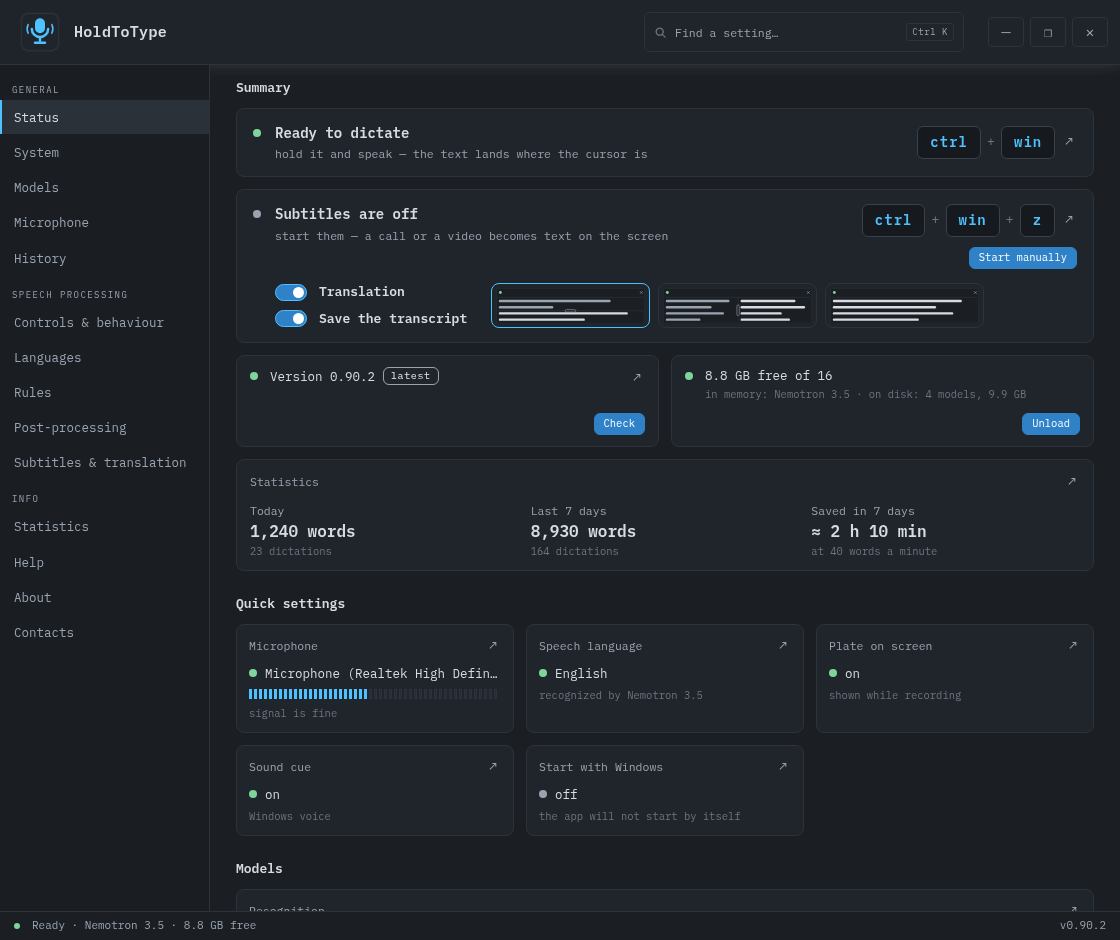
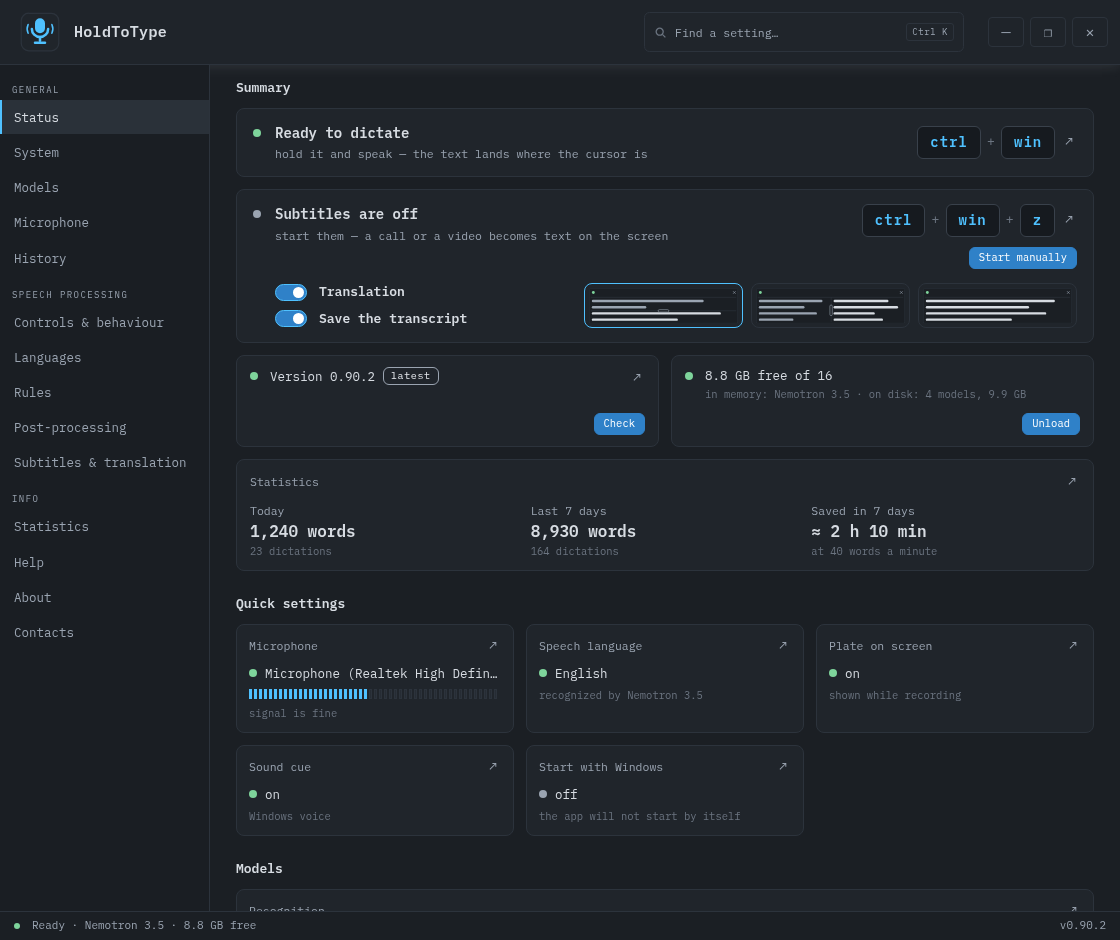
the layout cards of the subtitles card on status and the design cards on system stand at the right edge of their row in a wide window, while the terminal design keeps them as they were

Changed region(s): [[0.4375, 0.3085, 0.75, 0.3702], [0.7812, 0.3085, 0.9375, 0.3394]]

diff --git a/test/ui.test.js b/test/ui.test.js
@@ -520,7 +520,9 @@ function check(name, actual, expected) {
     check("and so does the space bar", skinSel.value, "terminal");
     check("the cards take the rules of the small layout cards", [html.includes("#subs_hero .stlay,#skin_cards .stlay{position:relative;"), html.includes("#subs_hero .stlay.on,#skin_cards .stlay.on{border-color:var(--hi);box-shadow:var(--higlow)}"), html.includes("#subs_hero .stlay:has(input:focus-visible),#skin_cards .stlay:has(input:focus-visible){outline:1px solid var(--green);outline-offset:2px}")], [true, true, true]);
     check("names are never cut: every column is as wide as the longest name and the cards wrap instead", [html.includes("display:grid;grid-template-columns:repeat(auto-fit,minmax(var(--dmin,68px),1fr));gap:6px;font-size:11px}"), box.style.getPropertyValue("--dmin"), html.includes("#skin_cards .dname{display:block;text-align:center;color:var(--dim);white-space:nowrap}")], [true, "calc(" + Math.max(...[...skinSel.options].map((o) => [...o.textContent].length)) + "ch + 10px)", true]);
-    check("in a wide window the row stops where seven cards of 84 px end and stays on the left", [html.includes("#skin_cards{flex:1 1 100%;min-width:0;max-width:calc(var(--dcount) * 84px + (var(--dcount) - 1) * 6px);"), box.style.getPropertyValue("--dcount"), String(skinSel.options.length)], [true, "7", "7"]);
+    check("in a wide window the row stops where seven cards of 84 px end", [html.includes("#skin_cards{flex:1 1 100%;min-width:0;max-width:calc(var(--dcount) * 84px + (var(--dcount) - 1) * 6px);"), box.style.getPropertyValue("--dcount"), String(skinSel.options.length)], [true, "7", "7"]);
+    check("outside the terminal design the cards stand at the right edge of the row and the free space goes to their left", [html.includes('html:not([data-skin="terminal"]) #skin_cards{margin-left:auto}'), (html.match(/#skin_cards\{[^}]*margin/g) || []).length], [true, 1]);
+    check("the terminal design keeps the cards on the left", [/html\[data-skin="terminal"\][^{]*#skin_cards[^{]*\{/.test(html), /(^|[}\n])#skin_cards\{[^}]*margin/.test(html)], [false, false]);
     check("the scanlines and the paper top edge come with the pictures", [html.includes(".dt-scan{position:absolute;inset:0;pointer-events:none;opacity:var(--scan);"), html.includes('.dthumb[data-skin="paper"] .dt-card{border-top-width:2px}')], [true, true]);
     skinSel.removeEventListener("change", count);
     check("the search still finds the design row", w.searchMatches("s_skin").some((el) => el.closest(".dsrow")), true);
@@ -2066,9 +2068,11 @@ function check(name, actual, expected) {
   check("status: outside the terminal design the cards grow up to the height of the switch column and shrink when the width runs out", [
     css.includes("#subs_hero .stswcol{display:flex;flex-direction:column;align-items:flex-start;gap:8px;flex:none}"),
     css.includes('html:not([data-skin="terminal"]) #subs_hero>.stsubsw{flex-wrap:nowrap}'),
-    css.includes('html:not([data-skin="terminal"]) #subs_hero .stsubsw>.stlays{flex:0 1 auto;min-width:0}'),
+    css.includes('html:not([data-skin="terminal"]) #subs_hero .stsubsw>.stlays{flex:0 1 auto;min-width:0;margin-left:auto;justify-content:flex-end}'),
     css.includes('html:not([data-skin="terminal"]) #subs_hero .stlay{flex:0 1 var(--cardw,74px);min-width:0}'),
     css.includes('html:not([data-skin="terminal"]) #subs_hero .stlay svg{width:100%}')], [true, true, true, true, true]);
+  check("status: outside the terminal design the small cards stand at the right edge of the row and the free space goes between the switch column and them", [css.includes('html:not([data-skin="terminal"]) #subs_hero .stsubsw>.stlays{flex:0 1 auto;min-width:0;margin-left:auto;justify-content:flex-end}'), (css.match(/#subs_hero[^{}]*\.stlays\{[^}]*margin/g) || []).length], [true, 1]);
+  check("status: the terminal design keeps the small cards right after the switches", [/html\[data-skin="terminal"\][^{]*\.stlays\{[^}]*margin/.test(css), /(^|[}\n])#subs_hero \.stlays\{[^}]*margin/.test(css)], [false, false]);
   check("status: the terminal design keeps the old order: translation, the small cards, saving", [
     css.includes('html[data-skin="terminal"] #subs_hero .stswcol{display:contents}'),
     css.includes('html[data-skin="terminal"] #subs_hero .stsubsw>.stlays{order:1}'),

diff --git a/client/settings.go b/client/settings.go
@@ -2136,7 +2136,7 @@ input.srcpick:disabled,input.srvpick:disabled{opacity:.4;cursor:default}
 #subs_hero .stlay:has(input:focus-visible),#skin_cards .stlay:has(input:focus-visible){outline:1px solid var(--green);outline-offset:2px}
 #subs_hero .stswcol{display:flex;flex-direction:column;align-items:flex-start;gap:8px;flex:none}
 html:not([data-skin="terminal"]) #subs_hero>.stsubsw{flex-wrap:nowrap}
-html:not([data-skin="terminal"]) #subs_hero .stsubsw>.stlays{flex:0 1 auto;min-width:0}
+html:not([data-skin="terminal"]) #subs_hero .stsubsw>.stlays{flex:0 1 auto;min-width:0;margin-left:auto;justify-content:flex-end}
 html:not([data-skin="terminal"]) #subs_hero .stlay{flex:0 1 var(--cardw,74px);min-width:0}
 html:not([data-skin="terminal"]) #subs_hero .stlay svg{width:100%}
 html[data-skin="terminal"] #subs_hero .stswcol{display:contents}
@@ -2145,6 +2145,7 @@ html[data-skin="terminal"] #subs_hero .stswcol>.stsw+.stsw{order:2}
 .dsrow{row-gap:9px}
 .dsrow>label{flex:1 1 100%}
 #skin_cards{flex:1 1 100%;min-width:0;max-width:calc(var(--dcount) * 84px + (var(--dcount) - 1) * 6px);display:grid;grid-template-columns:repeat(auto-fit,minmax(var(--dmin,68px),1fr));gap:6px;font-size:11px}
+html:not([data-skin="terminal"]) #skin_cards{margin-left:auto}
 #skin_cards .stlay{display:flex;flex-direction:column;gap:5px;padding:4px 4px 5px;line-height:1.3;min-width:0}
 #skin_cards .dname{display:block;text-align:center;color:var(--dim);white-space:nowrap}
 #skin_cards .stlay.on .dname{color:var(--green)}
